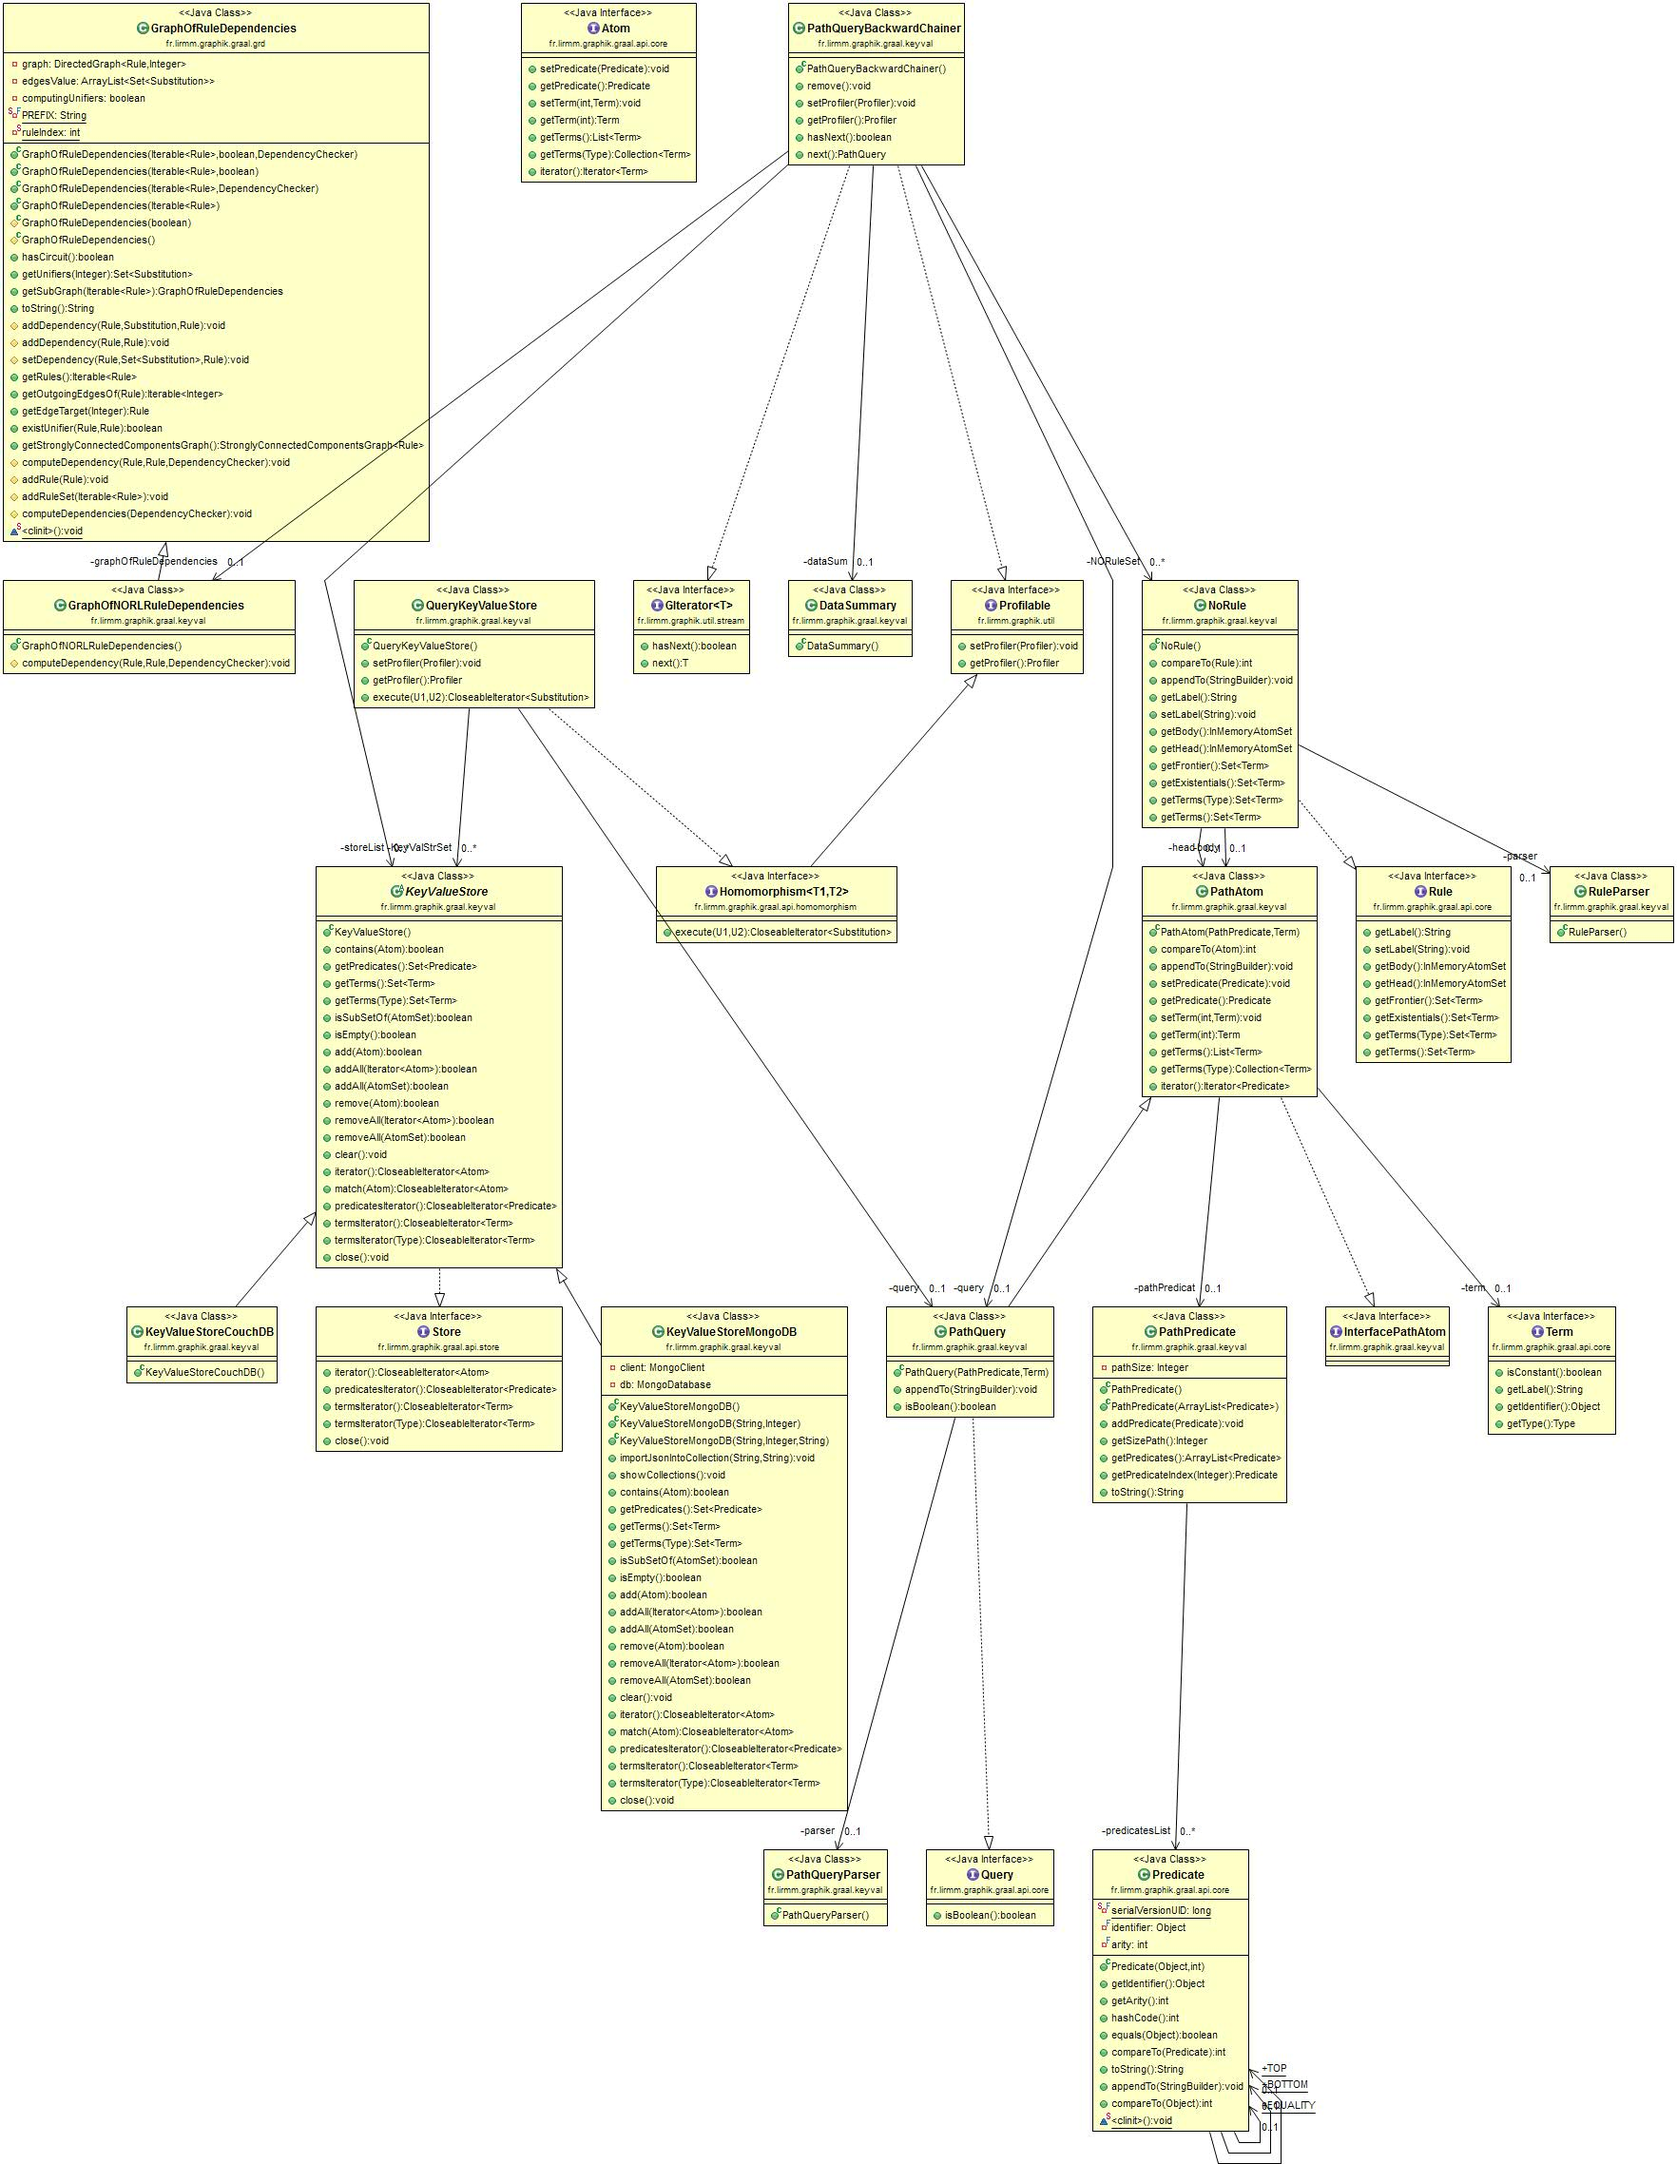
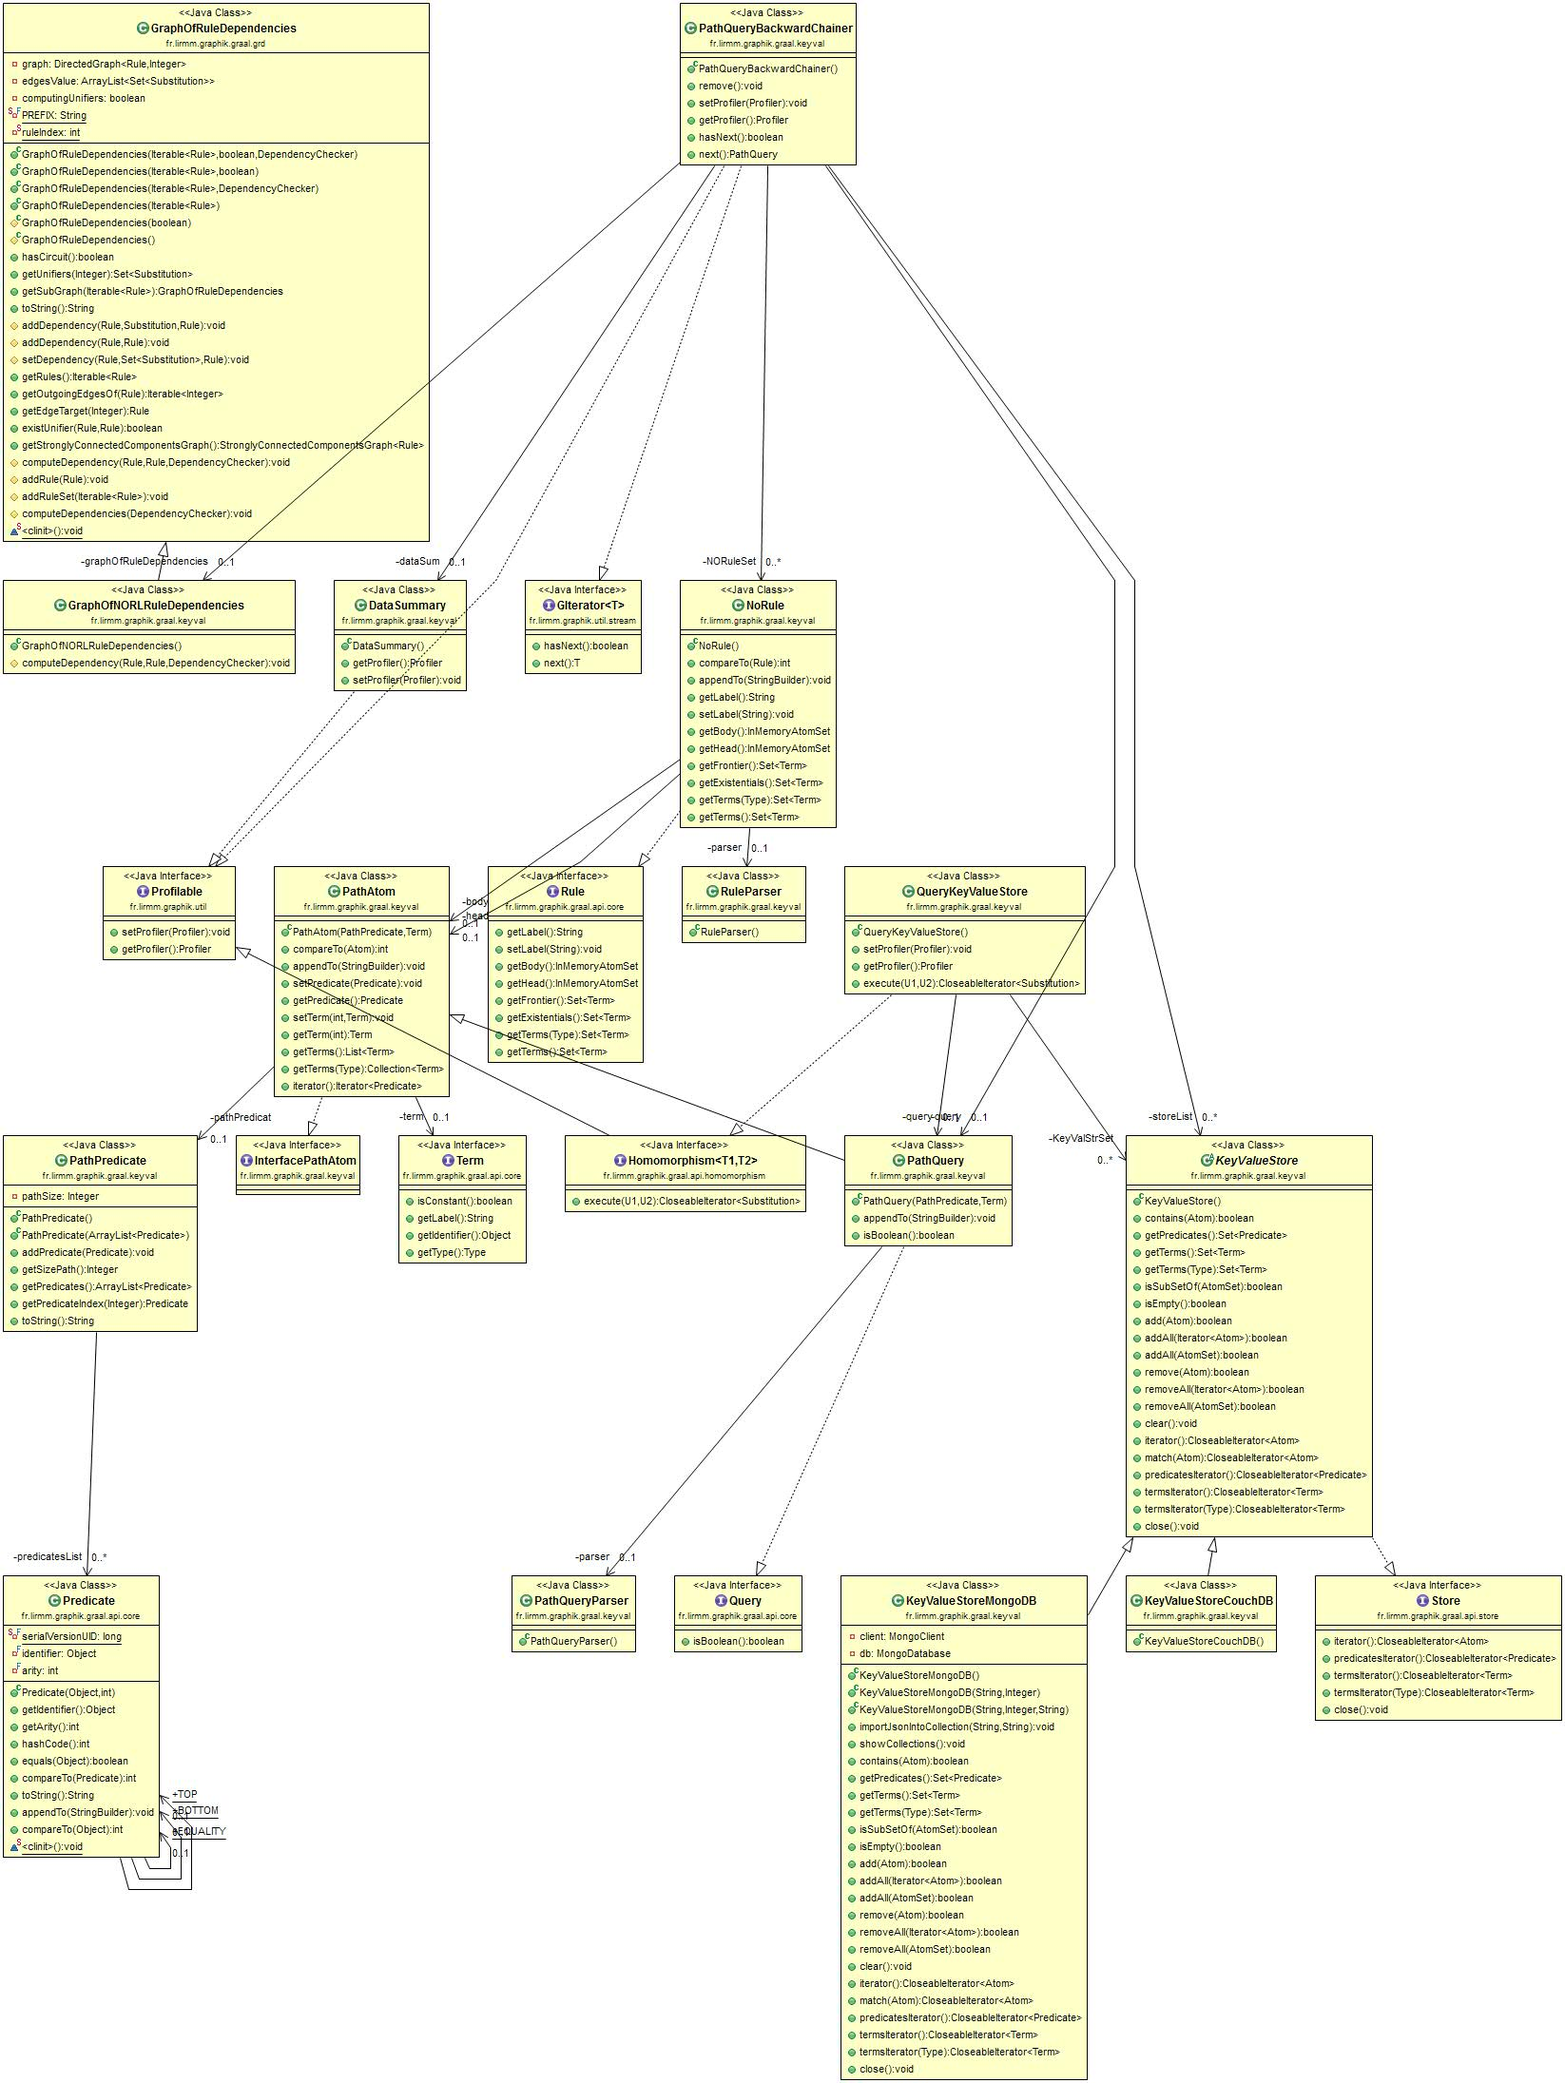
maj Datasummary et UML

diff --git a/graal-keyval/src/main/java/fr/lirmm/graphik/graal/keyval/DataSummary.java b/graal-keyval/src/main/java/fr/lirmm/graphik/graal/keyval/DataSummary.java
@@ -1,5 +1,18 @@
 package fr.lirmm.graphik.graal.keyval;
 
-public class DataSummary {
+import fr.lirmm.graphik.util.Profilable;
+import fr.lirmm.graphik.util.Profiler;
+
+public class DataSummary implements Profilable{
+
+	public Profiler getProfiler() {
+		// TODO Auto-generated method stub
+		return null;
+	}
+
+	public void setProfiler(Profiler arg0) {
+		// TODO Auto-generated method stub
+		
+	}
 
 }
